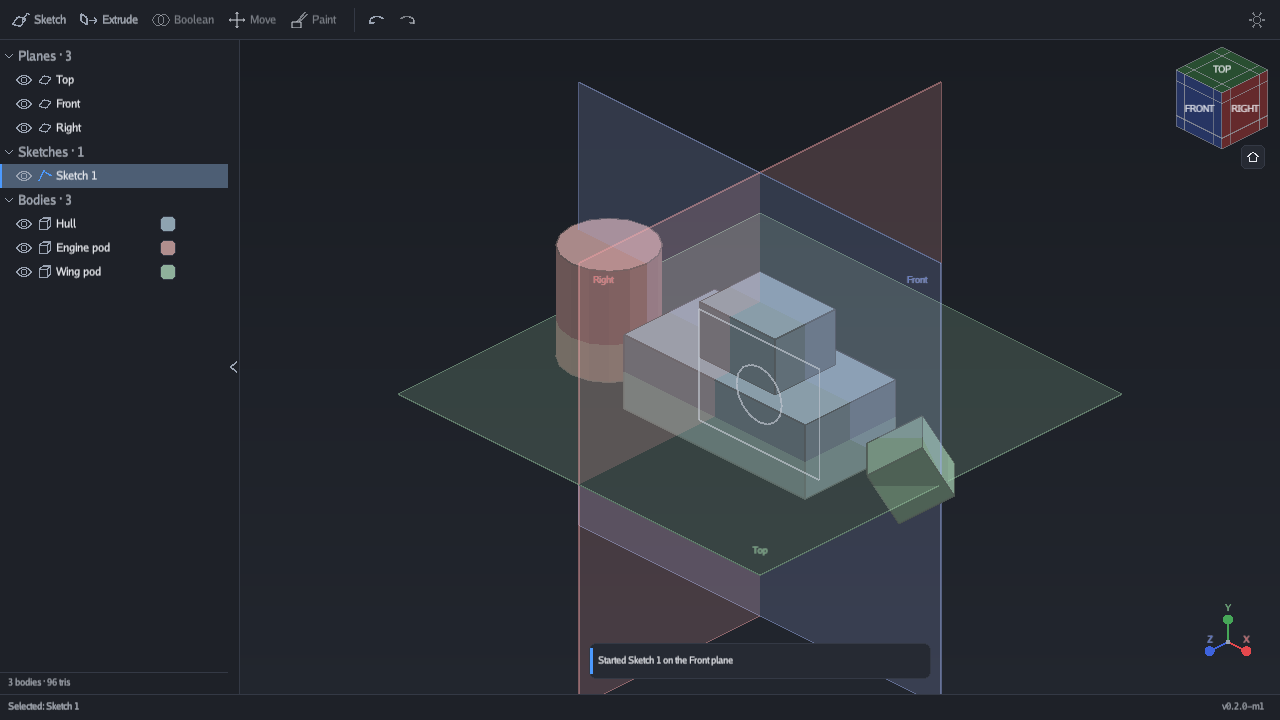
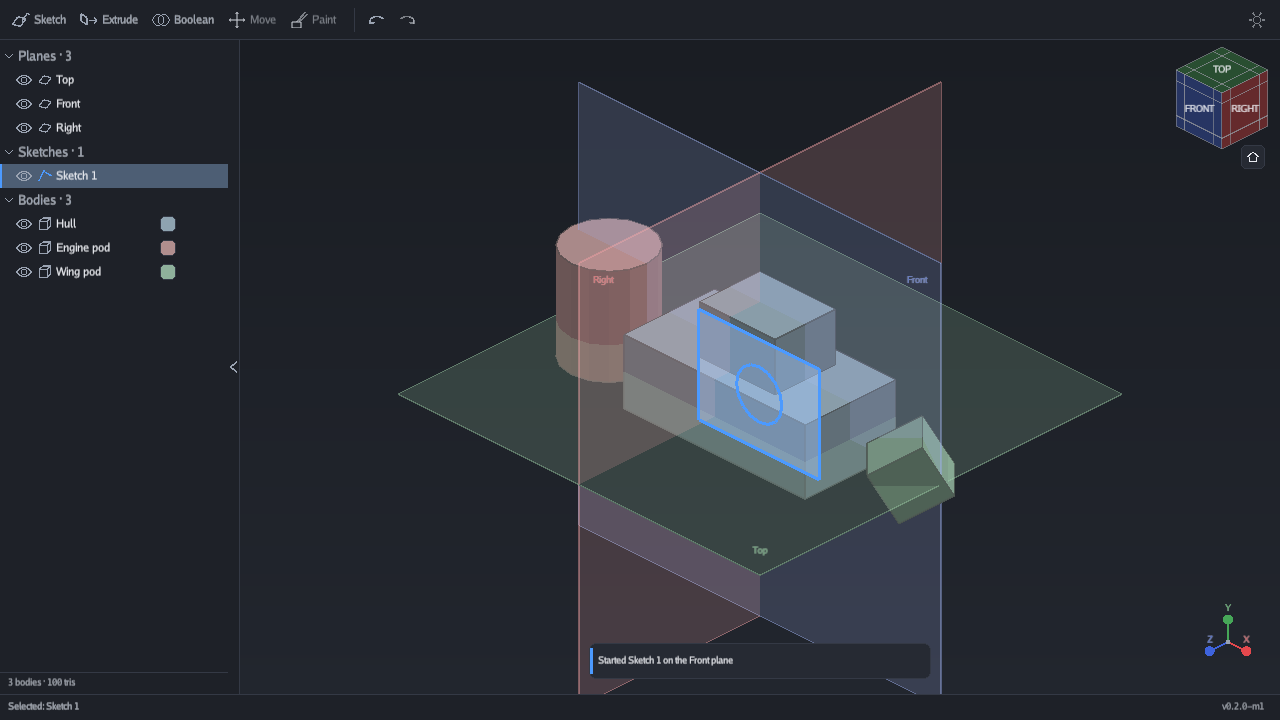
Fix: sketch and plane highlighting, and the sketch camera facing backwards
Four things the user reported, all real.

A selected sketch did not highlight and a closed one showed no tint.
BuildSketchDraw had one branch for the sketch being edited and one for
everything else, and the second drew strokes and nothing more. Idle
sketches now tint their closed regions — the one thing worth knowing about
a sketch you are not drawing on, since a filled region is one you can
extrude — and a selected one draws in the accent with its boundary.

A selected plane did not highlight. It did, technically: a 1.5-pixel
border turned accent, on a quad that fills the viewport. It is tinted
across its whole face now.

Sketching faced the wrong way. LookAlong takes the direction the eye sits
in, so looking at a face means passing its outward normal; M5 passed the
negation and put the camera inside the body, staring at the back of the
surface you had just asked to draw on. The geometry was right the whole
time and only the view was inside out.

"Add an extrude button top left" — it was already there, in both
toolbars, and that is the problem: in Idle it never greyed out, so it
looked the same whether or not anything could be extruded and you had to
click it to find out. Toolbar buttons now ask the tool whether it can run
and grey out with the reason when it cannot.

Changed region(s): [[0.5312, 0.4278, 0.6562, 0.6722], [0.125, 0.0, 0.1562, 0.0306]]

diff --git a/internal/scene/sketchdraw.go b/internal/scene/sketchdraw.go
@@ -30,6 +30,9 @@ const (
 	RegionHoverAlpha = 0x4D
 	// IdleSketchAlpha fades a sketch that is not being edited.
 	IdleSketchAlpha = 0.55
+	// IdleRegionFillAlpha tints a closed profile on a sketch nobody is editing,
+	// which is how you tell at a glance which sketches can be extruded.
+	IdleRegionFillAlpha = 0x1F
 )
 
 // SketchView is everything the app knows about the sketch being drawn, handed
@@ -57,6 +60,9 @@ type SketchView struct {
 	// dim solid lines you can snap to but never select (SPEC-UX §10). Empty for
 	// a sketch on a default plane, or one whose face has since been cut away.
 	Reference [][]geom.Vec2i
+	// Selected is true when this sketch is the current selection. An idle
+	// sketch you have picked has to look picked, the same as anything else.
+	Selected bool
 }
 
 // BuildSketchDraw assembles the overlay.
@@ -67,6 +73,11 @@ func BuildSketchDraw(v SketchView) *render.Overlay {
 	d := &render.Overlay{Frame: v.Sketch.Frame()}
 
 	if !v.Editing {
+		// An idle sketch still shows which of its profiles are closed. That is
+		// the one thing a person needs to know about a sketch they are not
+		// drawing on — a closed profile is one they can extrude — and leaving
+		// it out made a finished sketch look like a handful of loose lines.
+		appendRegionFills(d, v.Sketch.Arrangement(), v)
 		appendEntityStrokes(d, v)
 		return d
 	}
@@ -108,6 +119,11 @@ func appendRegionFills(d *render.Overlay, arr sketch2d.Arrangement, v SketchView
 	for i, r := range arr.Regions {
 		fill := ui.WithAlpha(ui.ColorAccent, RegionFillAlpha)
 		switch {
+		case !v.Editing && v.Selected:
+			fill = ui.WithAlpha(ui.ColorAccent, 0x4D)
+		case !v.Editing:
+			// Quieter than the active sketch's, but unmistakably a filled area.
+			fill = ui.WithAlpha(ui.ColorAccent, IdleRegionFillAlpha)
 		case v.SelectedRegions[i]:
 			fill = ui.WithAlpha(ui.ColorAccent, 0x66)
 		case i == v.HoverRegion:
@@ -120,7 +136,7 @@ func appendRegionFills(d *render.Overlay, arr sketch2d.Arrangement, v SketchView
 		}
 		// A selected or hovered region also gets its outline drawn, so the
 		// boundary reads even where fills overlap.
-		if v.SelectedRegions[i] || i == v.HoverRegion {
+		if (!v.Editing && v.Selected) || v.SelectedRegions[i] || i == v.HoverRegion {
 			appendLoopOutline(d, r.Outer, ui.ColorAccent)
 			for _, h := range r.Holes {
 				appendLoopOutline(d, h, ui.ColorAccent)
@@ -150,7 +166,12 @@ func appendEntityStrokes(d *render.Overlay, v SketchView) {
 	for i := range v.Sketch.Entities {
 		e := &v.Sketch.Entities[i]
 		col, width := ui.ColorText, float64(EntityWidthPx)
-		if !v.Editing {
+		switch {
+		case !v.Editing && v.Selected:
+			// A selected sketch reads as selected, in the same accent
+			// everything else selected uses.
+			col, width = ui.ColorAccent, SelectedWidthPx
+		case !v.Editing:
 			// An idle sketch recedes so the model and the active sketch read
 			// first, but it is unmistakably still there.
 			col = ui.Fade(ui.ColorTextDim, IdleSketchAlpha)

diff --git a/internal/apptest/m5_test.go b/internal/apptest/m5_test.go
@@ -302,3 +302,63 @@ func TestFaceSketchDefaultsToAdd(t *testing.T) {
 		t.Errorf("the body grew by %v, want the 2x2x2 that was drawn", grew)
 	}
 }
+
+// TestSketchingLooksAtTheFaceNotThroughIt is a regression, reported by the
+// user: starting a sketch pointed the camera the opposite way.
+//
+// LookAlong takes the direction the eye sits in, so looking at a face means
+// passing its outward normal. M5 passed the negation, which put the camera
+// inside the body staring at the back of the surface you had just asked to
+// draw on — the geometry was right and the view was inside out.
+//
+// The check is the camera's forward direction against the face's normal. They
+// must oppose: the eye is outside, looking back down the normal.
+func TestSketchingLooksAtTheFaceNotThroughIt(t *testing.T) {
+	stdout, _ := runScript(t, "m5_faceview")
+	cams := parseCameraDumps(t, stdout)
+	if len(cams) != 3 {
+		t.Fatalf("expected 3 dumps, got %d:\n%s", len(cams), stdout)
+	}
+
+	cases := []struct {
+		what   string
+		normal [3]float64
+		cam    [3]float64
+	}{
+		{"a face pointing +Y", [3]float64{0, 1, 0}, cams[0]},
+		{"a face pointing +X", [3]float64{1, 0, 0}, cams[1]},
+		{"the Front plane", [3]float64{0, 0, 1}, cams[2]},
+	}
+	for _, c := range cases {
+		dot := c.normal[0]*c.cam[0] + c.normal[1]*c.cam[1] + c.normal[2]*c.cam[2]
+		if dot > -0.99 {
+			t.Errorf("sketching on %s looks %v, which is %.2f against its normal %v — "+
+				"want the camera outside looking back down it",
+				c.what, c.cam, dot, c.normal)
+		}
+	}
+}
+
+// parseCameraDumps pulls the camera's forward direction out of each dump.
+func parseCameraDumps(t *testing.T, stdout string) [][3]float64 {
+	t.Helper()
+	line := regexp.MustCompile(
+		`^camera forward=(-?[\d.]+),(-?[\d.]+),(-?[\d.]+) ortho=\d$`)
+	var out [][3]float64
+	for _, raw := range strings.Split(stdout, "\n") {
+		m := line.FindStringSubmatch(strings.TrimRight(raw, "\r"))
+		if m == nil {
+			continue
+		}
+		var v [3]float64
+		for i := 0; i < 3; i++ {
+			f, err := strconv.ParseFloat(m[i+1], 64)
+			if err != nil {
+				t.Fatalf("unparsable camera line %q", raw)
+			}
+			v[i] = f
+		}
+		out = append(out, v)
+	}
+	return out
+}

diff --git a/internal/app/shell.go b/internal/app/shell.go
@@ -101,6 +101,10 @@ type toolbarTool struct {
 	// start is what clicking the button does, and is the same entry point the
 	// shortcut key uses. Nil for a tool that has not shipped.
 	start func(*App)
+	// ready reports whether the tool can run right now, and why not if it
+	// cannot. A button that is always live tells you nothing; one that greys
+	// out with a reason tells you what to do next (SPEC-UX §15).
+	ready func(*App) (bool, string)
 }
 
 func toolbarTools() []toolbarTool {
@@ -108,9 +112,9 @@ func toolbarTools() []toolbarTool {
 		{mode: ModeSketch, label: "Sketch", shortcut: "S", icon: ui.DrawSketchToolIcon,
 			start: (*App).beginSketchFromSelection},
 		{mode: ModeExtrude, label: "Extrude", shortcut: "E", icon: ui.DrawExtrudeIcon,
-			start: func(a *App) { a.BeginExtrude() }},
+			start: func(a *App) { a.BeginExtrude() }, ready: (*App).canExtrude},
 		{mode: ModeBoolean, label: "Boolean", shortcut: "B", icon: ui.DrawBooleanIcon,
-			start: func(a *App) { a.BeginBoolean() }},
+			start: func(a *App) { a.BeginBoolean() }, ready: (*App).canBoolean},
 		{mode: ModeIdle, label: "Move", shortcut: "M", icon: ui.DrawMoveIcon,
 			milestone: "M6"},
 		{mode: ModePaint, label: "Paint", shortcut: "P", icon: ui.DrawPaintIcon,
@@ -147,18 +151,21 @@ func (a *App) buildToolbar(r rl.Rectangle) {
 		box, rest = ui.SplitLeft(rest, w)
 		box.Height = btnH
 
-		var why string
-		if tool.start == nil {
+		enabled, why := tool.start != nil, ""
+		switch {
+		case tool.start == nil:
 			why = tool.label + " arrives with milestone " + tool.milestone
+		case tool.ready != nil:
+			enabled, why = tool.ready(a)
 		}
 		clicked := a.UI.IconButton(ui.MakeID("tool."+tool.label), box, tool.icon, ui.IconOpts{
 			Label:       tool.label,
 			Active:      tool.active(a),
-			Disabled:    tool.start == nil,
+			Disabled:    !enabled,
 			Shortcut:    tool.shortcut,
 			DisabledWhy: why,
 		})
-		if clicked && tool.start != nil {
+		if clicked && enabled {
 			tool.start(a)
 		}
 		var gap rl.Rectangle

diff --git a/internal/render/renderer.go b/internal/render/renderer.go
@@ -220,25 +220,33 @@ func (r *Renderer) drawPlanes(s *Scene, vp Viewport) {
 	for i := range s.Planes {
 		p := &s.Planes[i]
 		quad := planeQuad(p.Frame, p.HalfSize)
-		fill := p.Color
-		if p.Hovered {
-			fill = ui.WithAlpha(fill, uint8(min255(int(fill.A)*2)))
-		}
-		drawPolyFan(quad[:], fill)
 
+		// A selected plane is tinted in the accent, not merely outlined in it.
+		// These quads are enormous, and a one-and-a-half pixel border on
+		// something that fills the viewport is not a highlight anybody sees.
+		fill := p.Color
 		border := ui.WithAlpha(p.Color, 0x4D)
+		width := 1.5
 		switch {
 		case p.Selected:
-			border = ui.ColorAccent
+			fill = ui.WithAlpha(ui.ColorAccent, PlaneSelectedAlpha)
+			border, width = ui.ColorAccent, 3
 		case p.Hovered:
+			fill = ui.WithAlpha(fill, uint8(min255(int(fill.A)*2)))
 			border = ui.WithAlpha(p.Color, 0xAA)
 		}
+		drawPolyFan(quad[:], fill)
 		for k := 0; k < 4; k++ {
-			r.drawRibbon(c, quad[k], quad[(k+1)%4], 1.5, border, 1)
+			r.drawRibbon(c, quad[k], quad[(k+1)%4], width, border, 1)
 		}
 	}
 	rl.DrawRenderBatchActive()
 }
+
+// PlaneSelectedAlpha is how strongly a selected plane is tinted. Stronger than
+// its resting tint so the selection reads across the whole quad, weak enough
+// that the model behind it still does.
+const PlaneSelectedAlpha = 0x3A
 
 // drawEdgePass draws the crease and boundary overlay for every opaque body
 // (SPEC-RENDER §5).

diff --git a/internal/app/sketchmode.go b/internal/app/sketchmode.go
@@ -84,8 +84,11 @@ func (a *App) enterSketch(s *model.Sketch) {
 	to := a.targetCamera()
 	if s.OnFace {
 		// A face has no entry in the named-view table; the way to look at it
-		// straight on is to look down its own normal (SPEC-UX §10).
-		to.LookAlong(frame.N.Neg())
+		// straight on is to put the eye on the outward side and look back down
+		// the normal. LookAlong takes the direction the eye sits in, so it is
+		// the normal itself — negating it puts the camera inside the body,
+		// looking at the back of the face you asked to sketch on.
+		to.LookAlong(frame.N)
 	} else {
 		to.Azimuth, to.Elevation = render.PlaneView(s.Plane)
 	}
@@ -390,7 +393,11 @@ func (a *App) buildSketchDraws() []*render.Overlay {
 		if !s.Visible || s == active {
 			continue
 		}
-		if d := scene.BuildSketchDraw(scene.SketchView{Sketch: s}); d != nil && !d.Empty() {
+		view := scene.SketchView{
+			Sketch:   s,
+			Selected: a.Sel.Contains(model.SketchRef(s.ID)) || a.hoverSketch == s,
+		}
+		if d := scene.BuildSketchDraw(view); d != nil && !d.Empty() {
 			out = append(out, d)
 		}
 	}

diff --git a/internal/app/extrudemode.go b/internal/app/extrudemode.go
@@ -483,3 +483,26 @@ func (a *App) extrudeHint() string {
 	}
 	return "Drag the arrow to set the depth · Enter to confirm · Esc to cancel"
 }
+
+// canExtrude reports whether the Extrude button would do anything right now,
+// and what to do about it if not (SPEC-UX §15).
+//
+// The answer is exactly the set of things BeginExtrude accepts: a sketch being
+// edited with a closed region in it, or one selected in the tree or the
+// viewport with the same.
+func (a *App) canExtrude() (bool, string) {
+	const why = "Select a sketch with a closed profile — or press S to draw one"
+	s := a.ActiveSketch()
+	if s == nil {
+		if ref, ok := a.Sel.Primary(); ok && ref.Kind == model.SelSketch {
+			s = a.Doc().SketchByID(ref.Sketch)
+		}
+	}
+	if s == nil {
+		return false, why
+	}
+	if len(s.Arrangement().Regions) == 0 {
+		return false, "Close the red endpoints first — extrude needs a closed region"
+	}
+	return true, ""
+}

diff --git a/internal/app/headless.go b/internal/app/headless.go
@@ -868,6 +868,12 @@ func (r *ScriptRunner) dump() {
 		strings.Join(planes, ","), len(doc.Bodies), len(doc.Sketches),
 		a.Bus.UndoDepth(), a.Bus.RedoDepth(), boolBit(doc.DirtySinceSave))
 
+	// The camera's forward direction, which is the only way to assert that a
+	// view faces what it was asked to face rather than the back of it.
+	f := a.targetCamera().Forward()
+	fmt.Printf("camera forward=%.4f,%.4f,%.4f ortho=%d\n",
+		f.X, f.Y, f.Z, boolBit(!a.Camera.Perspective))
+
 	for _, b := range doc.Bodies {
 		fmt.Printf("body id=%d name=%q visible=%d tris=%d vol=%.4f color=%02X%02X%02X\n",
 			b.ID, b.Name, boolBit(b.Visible), b.TriangleCount(), bodyVolume(b),

diff --git a/internal/app/booleanmode.go b/internal/app/booleanmode.go
@@ -236,3 +236,12 @@ func (a *App) booleanPickSummary() string {
 	}
 	return out
 }
+
+// canBoolean reports whether the Boolean button would do anything, which needs
+// two bodies to combine.
+func (a *App) canBoolean() (bool, string) {
+	if len(a.Doc().Bodies) < 2 {
+		return false, "A boolean needs two bodies — there is only one to work with"
+	}
+	return true, ""
+}

diff --git a/PROGRESS.md b/PROGRESS.md
@@ -6,6 +6,44 @@
 
 ---
 
+## 2026-08-26 — Fixes: sketch and plane highlighting, sketch camera
+
+**Reported by the user, four things at once.** All four were real.
+
+**A selected sketch did not highlight, and a closed one showed no tint.**
+`BuildSketchDraw` had one branch for the sketch being edited and one for
+everything else, and the second drew strokes and nothing more. So a finished
+sketch showed no region fill — the one thing worth knowing about a sketch you
+are not drawing on, since a filled region is one you can extrude — and being
+selected changed nothing about how it looked. Idle sketches now tint their
+closed regions quietly, and a selected one draws in the accent with its
+boundary, like everything else selected.
+
+**A selected plane did not highlight.** It did, technically: the 1.5-pixel
+border turned accent. On a quad that fills the viewport that is not a highlight
+anybody sees. A selected plane is now tinted across its whole face and bordered
+at three pixels.
+
+**Sketching faced the wrong way.** `Camera.LookAlong` takes the direction the
+eye sits in, so looking at a face means passing its outward normal. M5 passed
+the negation, which put the camera inside the body staring at the back of the
+surface you had just asked to draw on. The geometry was right the whole time and
+the view was inside out. `TestSketchingLooksAtTheFaceNotThroughIt` asserts the
+camera's forward opposes the normal, and fails with the old sign.
+
+**"Add an extrude button top left."** It was already there, in both toolbars.
+The real problem is that it never greyed out: in Idle it looked identical
+whether or not anything could be extruded, so it taught you nothing and you had
+to click it to find out. Toolbar buttons now ask the tool whether it can run and
+grey out with the reason when it cannot — Extrude wants a sketch with a closed
+profile, Boolean wants two bodies (SPEC-UX §15).
+
+**Verified:** shots read for all four states. Full suite green; goldens
+regenerated, since plane tint, sketch tint, toolbar greying and the face-sketch
+camera all changed what is on screen.
+
+---
+
 ## 2026-08-26 — Fix: closed sketches could not be clicked
 
 **Reported by the user:** closed sketches can't be selected to extrude them.
